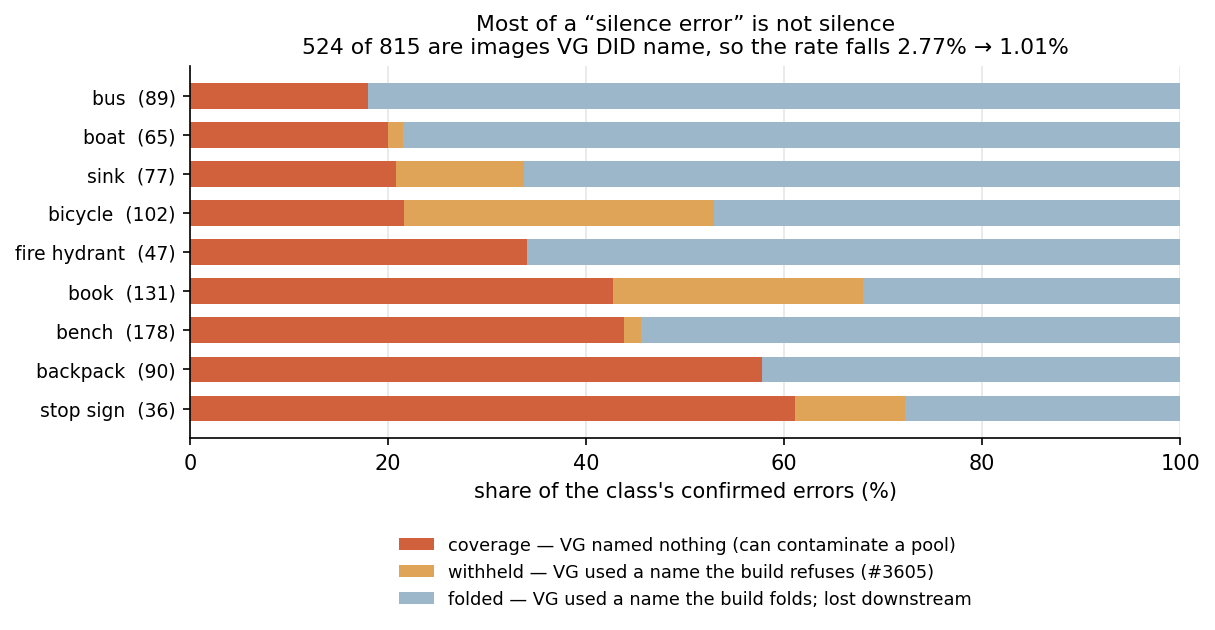
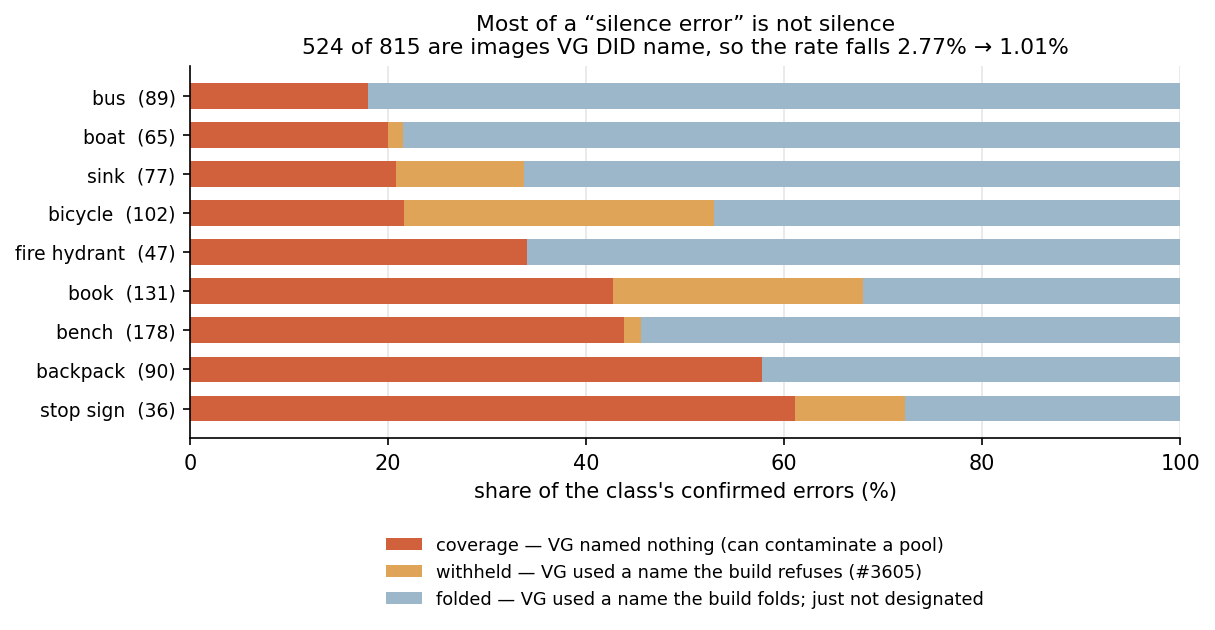
Don't claim to know WHY a folded image is not designated (#3696)
The `folded` bucket was written up as "lost downstream, at banding or the
scatter filter". That names one cause out of three and asserts the two that
would be faults. `designate_cells` fills a cell from the roster and backfills by
rank up to SCALE_N_POS, so a perfectly good image below the cut-off is never
reached -- and over-subscription is an ordinary state, not a fault. Nothing here
reads the build's passes, so nothing here can tell the three apart.

Reported as one count now, with the apportionment filed as #3818. #3819 carries
the other follow-up: rechecking `dog`, `fork` and `vase` under the rules in
force would take the pooled figure from 9 classes to 12.

Claude-Session: https://claude.ai/code/session_01DH8JkPckirmtQM4S91sVnq

Changed region(s): [[0.3045, 0.8444, 0.8222, 0.9651]]

diff --git a/scripts/experiments/pile/silence_source.py b/scripts/experiments/pile/silence_source.py
@@ -20,8 +20,13 @@ ways:
   (`bike`, `stop`, `sailboat`). VG spoke; the build declined to listen, which is
   a ruling and not an error;
 * **folded** -- VG used the class's own name or a spelling `SCALE_VG_NAMES`
-  already folds. Nothing to do with VG at all: the image lost its designation
-  downstream, at banding or the scatter filter.
+  already folds. Nothing to do with VG at all: the image is simply not among the
+  class's *designated* positives. Which of the reasons applies is not read here
+  and must not be guessed -- its box may have missed a band, the scatter filter
+  may have dropped it, or `designate_cells` may have filled the cell from higher
+  ranks and never reached it. Over-subscription is an ordinary state, not a
+  fault, which is why this bucket is reported as one count and not as a diagnosis
+  (#3818).
 
 **Only the first can contaminate a negative pool**, which is the whole reason
 the rate has a consumer. `lift_ambiguous` withholds an ambiguous name from the

diff --git a/docs/experiments/2026-09-13-vg-silence-3696/figures.py b/docs/experiments/2026-09-13-vg-silence-3696/figures.py
@@ -168,7 +168,7 @@ def source_split(src: dict, out: Path) -> Path:
     labels = {
         "coverage": "coverage — VG named nothing (can contaminate a pool)",
         "withheld": "withheld — VG used a name the build refuses (#3605)",
-        "folded": "folded — VG used a name the build folds; lost downstream",
+        "folded": "folded — VG used a name the build folds; just not designated",
     }
 
     for kind in ("coverage", "withheld", "folded"):

diff --git a/docs/experiments/README.md b/docs/experiments/README.md
@@ -78,7 +78,7 @@ newest first.
 
 | Study | Question | Verdict |
 |-------|----------|---------|
-| [`2026-09-13-vg-silence-3696/`](2026-09-13-vg-silence-3696/REPORT.md) | How often is VG silent about a class that is really there (#3696)? The rate that justified #3670's negative-pool composition, which the composition then made unmeasurable by drawing all 9,900 shared negatives from the COCO-scored half. Read off the exhaustive pass's own answers instead, at no extra labour: every class VG did NOT name in a queue image is a measurement of its silence against a human reference. 81,363 silent pairs over 3,397 images; 9 of 25 classes finished. | **1.0%** [0.90%, 1.1%], **bound 1.7%** -- so at most **104** of `vg_scale_deep`'s 6,264 unprovable negatives are contaminated (#3723), and #3666's independently measured **1.40%** [0.68, 2.86] pool error now contains it. **The correction is the finding: 524 of 815 confirmed errors (64%) are images VG DID name** -- 441 under a spelling the build folds and lost at banding, 83 under one `lift_ambiguous` refuses on purpose -- and neither can reach a negative pool. Reading designations as silence gives 2.8%, a valid bound that is loose by 2x, and it *re-ranks* the classes: `bus` falls 2.7% -> 0.51%, `bench` holds at 2.5%. Conditioning: an upper bound on the UNIFORM rate, since the queue is clutter-selected (#3667, #3679); 0.53 pts of the bound is screening mass nobody was shown (#3768, 0 of 600); `dog`, `fork` and `vase` are excluded for having been voted under a rule that has since moved (#3814). |
+| [`2026-09-13-vg-silence-3696/`](2026-09-13-vg-silence-3696/REPORT.md) | How often is VG silent about a class that is really there (#3696)? The rate that justified #3670's negative-pool composition, which the composition then made unmeasurable by drawing all 9,900 shared negatives from the COCO-scored half. Read off the exhaustive pass's own answers instead, at no extra labour: every class VG did NOT name in a queue image is a measurement of its silence against a human reference. 81,363 silent pairs over 3,397 images; 9 of 25 classes finished. | **1.0%** [0.90%, 1.1%], **bound 1.7%** -- so at most **104** of `vg_scale_deep`'s 6,264 unprovable negatives are contaminated (#3723), and #3666's independently measured **1.40%** [0.68, 2.86] pool error now contains it. **The correction is the finding: 524 of 815 confirmed errors (64%) are images VG DID name** -- 441 under a spelling the build folds but never designated (#3818), 83 under one `lift_ambiguous` refuses on purpose -- and neither can reach a negative pool. Reading designations as silence gives 2.8%, a valid bound that is loose by 2x, and it *re-ranks* the classes: `bus` falls 2.7% -> 0.51%, `bench` holds at 2.5%. Conditioning: an upper bound on the UNIFORM rate, since the queue is clutter-selected (#3667, #3679); 0.53 pts of the bound is screening mass nobody was shown (#3768, 0 of 600); `dog`, `fork` and `vase` are excluded for having been voted under a rule that has since moved (#3814). |
 | [`2026-09-11-calibration-seed-3796/`](2026-09-11-calibration-seed-3796/REPORT.md) | How wide is the distribution the pinned Train/Calibrate split draws from (#3796)? Production pins the fold split to `CALIBRATION_SPLIT_SEED` and #2934 pinned it on purpose, so every eval number here is one sample from a spread nobody had measured. The grid is inverted: the **cell seed is held** so the data cannot move, and the split is redrawn 20 times. 1,000 cells, 5 classes x 5 cell seeds x 20 draws x three geometries, 150 votes on `vg_scale_any`. Executes [`PLAN.md`](2026-09-11-calibration-seed-3796/PLAN.md), pre-registered before the array. | **The split is the larger half of the noise every study here already lives with** — **70%** of the cell-to-cell variance a study bootstraps over is the calibration draw, the one axis no study varies, against **30%** for the cell seed, the axis every study does. Median sd of cost across draws **0.022-0.060**, and **75-83%** of draw pairs inside one block differ by more than the **0.013** #3287 reported as its headline. **Most of it is not the cut**: the ranking term carries 0.39-1.15 of the variance against 0.13-0.73 for the cut, `threshold` sd is only 0.011-0.019, and **75 of 75 blocks are voting on different media by click 8** — reseeding a calibration split mostly changes the data the session goes on to collect. It halves over 150 votes without closing (still 12-17% of the cost level), and **42 is an ordinary sample** (percentile 0.52 +/- 0.02, n=75). The pre-registered reading holds: this is **not** an error bar to add to published numbers — the cell-to-cell sd a single-draw study sees (0.056) is what the decomposition predicts (0.057), so it is already inside every bootstrap here. What it is, is a floor pairing cannot lift, and a **user-facing lottery worth 0.03-0.05 in cost that has nothing to do with their labels** (#3806). Levels are this environment's; the portability handle failed (#3807). |
 | [`2026-09-07-band-remeasure-3679/`](2026-09-07-band-remeasure-3679/REPORT.md) | Is #3156's band effect a LOWER bound (#3679)? Re-measures paired small-vs-large cost on the rebuilt 25-class construction and reports it beside the published run (`scale-3156-map`, job 582417). | **No -- it is an over-estimate.** The issue predicted the gap would widen; it **narrowed in all five arms**, by `0.033` to `0.065`, four of five resolvably. The reason is in the levels, not the gap: cost rose `6-14%` at `small` against `63-122%` at `large`, so part of the published effect was `large` being too easy -- the same shape as #3667's own 2.5x-at-`@small`, 1.25x-at-`@large`. Composition is **not** the confound (restricting both runs to the twelve shared classes agrees within `0.020` on every arm); power is, and the controlled comparison resolves 1 of 5 rather than 4 of 5. Five seeds by decision after per-cell cost came in at 19.1 min against the published run's 4.4 -- an estimate does not survive a pile rebuild. Measured on the pile as built 2026-09-07, before the 2026-09-08 rebuild. |
 | [`2026-09-07-pool-hardness-3680/`](2026-09-07-pool-hardness-3680/REPORT.md) | Is the shared negative pool doing the same work for every class (#3680)? Per-class `AUC(positives, pool)` against `AUC(positives, cross-class)` on the rebuilt 25-class `vg_scale`, paired and with intervals. | The premise holds and the proposed mechanism is **refuted with the sign reversed**. The pool's difficulty is not uniform -- it spans `-0.066` to `+0.020` and the sign flips -- so one pool asks twenty-five questions. But #3680 predicted *indoor tabletop* classes would find the pool harder, and every one of them finds it **easier**, `book` (`-0.021`) included; the five that find it harder are `bird`, `knife`, `dog`, `boat`, `kite` -- outdoor and animal, though a query ablation shows *which* five is partly a property of the query: stripping the scene term from `a boat on the water` and `a car on the street` flips both across the axis, moving `car` by `0.041`. **Keep the single shared pool** (for 19 of 25 classes #3667's admission already sets difficulty, and the five exceptions carry the *smallest* margins), but stop calling it the hard-negative set and cite this as the number behind #3687's "cross-class ranking is not supported". The script also reported its own answer backwards -- "20 of 25" where its numbers said 5 -- fixed in `4bfb9798c`. |

diff --git a/docs/experiments/2026-09-13-vg-silence-3696/REPORT.md b/docs/experiments/2026-09-13-vg-silence-3696/REPORT.md
@@ -49,7 +49,7 @@ the number:
 |---|---:|---|
 | **coverage** | **291** | no name on the image belongs to the class under any spelling the tables know. VG genuinely did not describe it. |
 | **withheld** | 83 | VG used a name `SCALE_VG_AMBIGUOUS` refuses on purpose — `bike`, `stop`, `sailboat` (#3605). VG spoke; the build declined to listen. |
-| **folded** | 441 | VG used the class's own name, or one `SCALE_VG_NAMES` already folds. Nothing to do with VG: the image lost its designation downstream, at banding or the scatter filter. |
+| **folded** | 441 | VG used the class's own name, or one `SCALE_VG_NAMES` already folds. Nothing to do with VG: the image is simply not among the class's *designated* positives — a missed band, the scatter filter, or a cell `designate_cells` filled from higher ranks before reaching it. Which, is #3818. |
 
 **Only `coverage` can contaminate a negative pool**, which is the rate's only
 live consumer. `lift_ambiguous` withholds an ambiguous name from the shared pool
@@ -79,8 +79,13 @@ almost entirely a numerator story.
 The correction is not uniform, and it re-ranks the classes. `bench` and
 `backpack` stay near the top because their errors really are coverage; `bus`
 drops from 2.7% to 0.51% because 73 of its 89 errors are images VG called a bus
-and the build then dropped at banding. **A class that looks dirty on the
+that never became designated positives. **A class that looks dirty on the
 designation reading can be clean on the one that matters.**
+
+Those 441 are not nothing, though: they are images a human has now confirmed hold
+a class the pile does not designate them for. Whether they are supply the build
+is leaving on the table or ordinary over-subscription is #3818; either way they
+are already safe from the negative pool.
 
 ### Literal examples
 
@@ -147,6 +152,7 @@ sporks not strainers`), `vase` (`vase incl pots and planters` → `vase not
 planters`, #3784). They are reported and kept out of the pooled figure rather
 than dropped (#3814). `vase` is the one to watch: the planter recheck retired
 **20 of 31** of the *old* positives, and it does not overlap these 394 at all.
+Rechecking all three would take the pooled figure from 9 classes to 12 — #3819.
 
 ## What was given up
 

diff --git a/scripts/experiments/pile/README.md b/scripts/experiments/pile/README.md
@@ -762,8 +762,8 @@ check them (#3723).
 **Run `silence_source.py` after it, and quote that number.** A cell pickle
 carries a *designation*, not what VG named (#3678), so the rate above counts an
 image VG called a `bike` as an image VG was silent about. Measured, that is
-**64%** of the errors — 441 of 815 under a spelling the build folds and loses at
-banding, 83 under one `lift_ambiguous` refuses (#3605) — and **none of it can
+**64%** of the errors — 441 of 815 under a spelling the build folds but never
+designates (#3818), 83 under one `lift_ambiguous` refuses (#3605) — and **none of it can
 reach a negative pool**, which is the only thing the rate is for. The correction
 is a factor of two and it re-ranks the classes:
 
